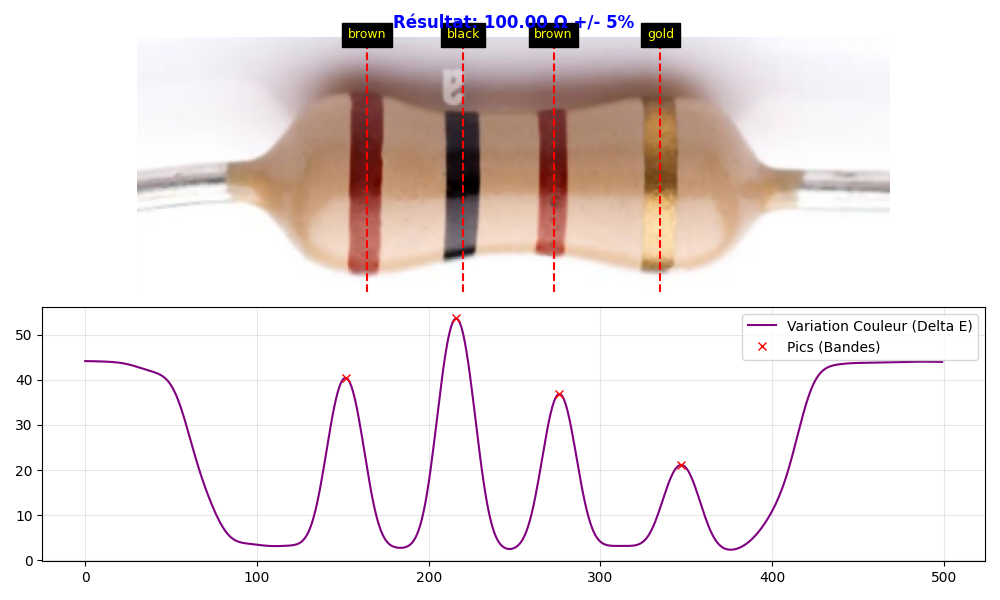
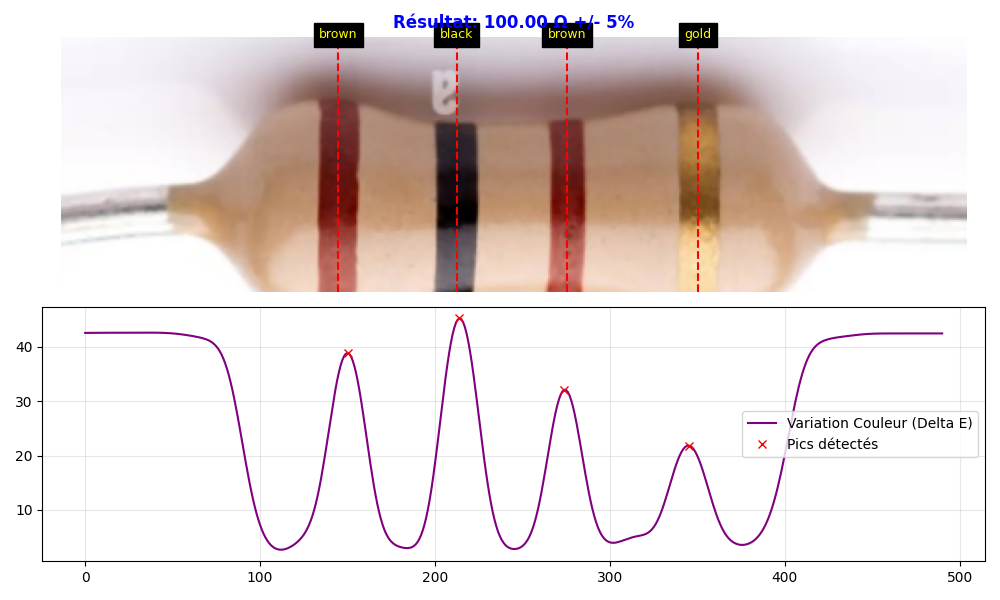
feat: add new test images

diff --git a/main.py b/main.py
@@ -1,6 +1,7 @@
 import numpy as np
 import matplotlib.pyplot as plt
 from skimage import io, color, filters, measure, transform, morphology
+from skimage.transform import resize
 from scipy.signal import find_peaks
 from scipy.ndimage import gaussian_filter1d
 from scipy.spatial import distance
@@ -64,49 +65,60 @@ def load_and_preprocess(image_path):
             img = img[:, :, :3]
         return filters.median(img, footprint=np.ones((3, 3, 1)))
     except Exception as e:
-        print(f"Erreur lors du chargement de l'image : {e}")
+        print(f"Erreur critique lors du chargement : {e}")
         return None
 
 
 def segment_and_crop(image):
-    hsv = color.rgb2hsv(image)
+    scale_factor = 0.25
+    h_orig, w_orig = image.shape[:2]
+    img_small = np.array(
+        resize(
+            image,
+            (int(h_orig * scale_factor), int(w_orig * scale_factor)),
+            anti_aliasing=True,
+            preserve_range=True,
+        )
+    ).astype(np.uint8)
+
+    hsv = color.rgb2hsv(img_small)
     sat = hsv[:, :, 1]
     try:
         thresh_s = filters.threshold_otsu(sat)
         mask_s = sat > thresh_s
     except:
-        mask_s = np.zeros(image.shape[:2], dtype=bool)
+        mask_s = np.zeros(img_small.shape[:2], dtype=bool)
 
-    gray = color.rgb2gray(image)
+    gray = color.rgb2gray(img_small)
     try:
         thresh_g = filters.threshold_otsu(gray)
         mask_g = gray < thresh_g
-        if np.sum(mask_g) > mask_g.size / 2:
-            mask_g = gray > thresh_g
+        if np.sum(mask_g) > mask_g.size / 0.6:
+            mask_g = ~mask_g
     except:
-        return None
+        mask_g = np.zeros(img_small.shape[:2], dtype=bool)
 
     binary = np.logical_or(mask_s, mask_g)
-    binary_clean = morphology.binary_opening(binary, morphology.disk(5))
 
-    if np.sum(binary_clean) < MIN_AREA:
-        binary_clean = binary
-
-    binary_clean = morphology.binary_closing(binary_clean, morphology.disk(5))
+    binary_clean = morphology.binary_erosion(binary, morphology.disk(2))
+    binary_clean = morphology.binary_opening(binary_clean, morphology.disk(2))
+    binary_clean = morphology.binary_dilation(binary_clean, morphology.disk(4))
 
     label_image = measure.label(binary_clean)
     regions = measure.regionprops(label_image)
 
     resistor = None
     max_area = 0
+    min_area_scaled = MIN_AREA * (scale_factor**2)
 
     for r in regions:
-        if r.area < MIN_AREA:
+        if r.area < min_area_scaled:
             continue
         if r.axis_minor_length == 0:
             continue
         if r.axis_major_length / r.axis_minor_length < ASPECT_RATIO_MIN:
             continue
+
         if r.area > max_area:
             max_area = r.area
             resistor = r
@@ -116,44 +128,71 @@ def segment_and_crop(image):
 
     angle = -np.degrees(resistor.orientation)
 
-    rotated_img = transform.rotate(
-        image,
-        angle,
-        center=resistor.centroid,
-        resize=True,
-        preserve_range=True,
-        order=1,
+    centroid_orig = (
+        resistor.centroid[0] / scale_factor,
+        resistor.centroid[1] / scale_factor,
+    )
+
+    edge_pixels = np.concatenate(
+        [image[0, :, :], image[-1, :, :], image[:, 0, :], image[:, -1, :]]
+    )
+    bg_color = np.median(edge_pixels, axis=0)
+
+    rotated_img = np.array(
+        transform.rotate(
+            image,
+            angle,
+            center=centroid_orig,
+            resize=True,
+            preserve_range=True,
+            order=1,
+            cval=0,
+        )
     ).astype(np.uint8)
 
-    if rotated_img is None or rotated_img.size == 0 or len(rotated_img.shape) < 2:
-        return None
+    mask_valid = np.ones(image.shape[:2], dtype=bool)
+    rotated_mask_valid = transform.rotate(
+        mask_valid, angle, center=centroid_orig, resize=True, order=0
+    ).astype(bool)
+    for c in range(3):
+        channel = rotated_img[:, :, c]
+        channel[~rotated_mask_valid] = bg_color[c]
+        rotated_img[:, :, c] = channel
 
+    binary_orig_size = np.array(
+        resize(binary_clean, (h_orig, w_orig), order=0, anti_aliasing=False)
+    )
     rotated_mask = transform.rotate(
-        label_image == resistor.label,
-        angle,
-        center=resistor.centroid,
-        resize=True,
-        order=0,
+        binary_orig_size, angle, center=centroid_orig, resize=True, order=0
     )
 
     rows = np.any(rotated_mask, axis=1)
     cols = np.any(rotated_mask, axis=0)
-
     if not np.any(rows) or not np.any(cols):
         return None
 
     ymin, ymax = np.where(rows)[0][[0, -1]]
     xmin, xmax = np.where(cols)[0][[0, -1]]
 
-    h_box = ymax - ymin
-    w_box = xmax - xmin
-    pad_y = int(h_box * CROP_PADDING)
-    pad_x = int(w_box * CROP_PADDING * 0.5)
+    roi_mask = rotated_mask[ymin:ymax, xmin:xmax]
+    col_heights = np.sum(roi_mask, axis=0)
 
-    ymin = max(0, ymin - pad_y)
-    ymax = min(rotated_img.shape[0], ymax + pad_y)
-    xmin = max(0, xmin - pad_x)
-    xmax = min(rotated_img.shape[1], xmax + pad_x)
+    if len(col_heights) > 0:
+        median_height = np.median(col_heights[col_heights > 0])
+        valid_cols = np.where(col_heights > median_height * 0.7)[0]
+
+        if len(valid_cols) > 0:
+            new_xmin = xmin + valid_cols[0]
+            new_xmax = xmin + valid_cols[-1]
+
+            pad_x = int((new_xmax - new_xmin) * 0.05)
+            xmin = max(0, new_xmin - pad_x)
+            xmax = min(rotated_img.shape[1], new_xmax + pad_x)
+
+            h_box = ymax - ymin
+            pad_y = int(h_box * CROP_PADDING)
+            ymin = max(0, ymin - pad_y)
+            ymax = min(rotated_img.shape[0], ymax + pad_y)
 
     cropped = rotated_img[ymin:ymax, xmin:xmax]
 
@@ -167,7 +206,8 @@ def segment_and_crop(image):
 
 def extract_signals(crop):
     h, w, _ = crop.shape
-    roi = crop[int(h * 0.4) : int(h * 0.6), :]
+    roi = crop[int(h * 0.45) : int(h * 0.55), :]
+
     line_rgb = np.median(roi, axis=0).reshape(1, w, 3).astype(np.uint8)
     line_lab = color.rgb2lab(line_rgb).reshape(w, 3)
     return line_rgb.reshape(w, 3), line_lab
@@ -176,6 +216,7 @@ def extract_signals(crop):
 def detect_peaks_robust(line_lab):
     bg_lab = np.median(line_lab, axis=0)
     delta_e = np.sqrt(np.sum((line_lab - bg_lab) ** 2, axis=1))
+
     sigma = max(2, len(delta_e) * 0.015)
     delta_e_smooth = gaussian_filter1d(delta_e, sigma=sigma)
 
@@ -228,7 +269,7 @@ def decode_resistor(colors):
         bands.reverse()
 
     try:
-        if len(bands) >= 4:
+        if len(bands) >= 3:
             vals = [RESISTOR_VALUES[b][0] for b in bands if b in RESISTOR_VALUES]
             mults = [RESISTOR_VALUES[b][1] for b in bands if b in RESISTOR_VALUES]
             tols = [RESISTOR_VALUES[b][2] for b in bands if b in RESISTOR_VALUES]
@@ -236,25 +277,26 @@ def decode_resistor(colors):
             tol_val = 20
             if tols[-1] is not None:
                 tol_val = tols[-1]
+                vals = vals[:-1]
+                mults = mults[:-1]
 
-            mult_val = 1
-            if mults[-2] is not None:
-                mult_val = mults[-2]
-
-            digits = vals[:-2]
             ohm_val = 0
 
-            if len(digits) == 2 and None not in digits:
-                ohm_val = (digits[0] * 10 + digits[1]) * mult_val
+            if len(vals) >= 2:
+                mult_val = mults[-1]
+                digits = vals[:-1]
 
-            elif len(digits) == 3 and None not in digits:
-                ohm_val = (digits[0] * 100 + digits[1] * 10 + digits[2]) * mult_val
+                if mult_val is None:
+                    return "Erreur Multiplicateur"
 
+                val_acc = 0
+                for d in digits:
+                    if d is not None:
+                        val_acc = val_acc * 10 + d
+
+                ohm_val = val_acc * mult_val
             else:
-                if len(digits) >= 2 and None not in digits[:2]:
-                    ohm_val = (digits[0] * 10 + digits[1]) * mult_val
-                else:
-                    return "Erreur Valeurs"
+                return "Erreur Structure"
 
             suffix = "Ω"
             if ohm_val >= 1e6:
@@ -267,7 +309,6 @@ def decode_resistor(colors):
             return f"{ohm_val:.2f} {suffix} +/- {tol_val}%"
 
     except Exception as e:
-        print(f"Erreur de calcul: {e}")
         pass
 
     return "Erreur Décodage"
@@ -290,7 +331,7 @@ def show_visu(crop, peaks, colors, result, delta_e_smooth):
 
     plt.subplot(2, 1, 2)
     plt.plot(delta_e_smooth, color="purple", label="Variation Couleur (Delta E)")
-    plt.plot(peaks, delta_e_smooth[peaks], "x", color="red", label="Pics (Bandes)")
+    plt.plot(peaks, delta_e_smooth[peaks], "x", color="red", label="Pics détectés")
     plt.grid(alpha=0.3)
     plt.legend()
     plt.tight_layout()
@@ -299,7 +340,9 @@ def show_visu(crop, peaks, colors, result, delta_e_smooth):
 
 def main():
     img_dir = "./images"
-    files = glob.glob(os.path.join(img_dir, "*.[jJ][pP][gG]"))
+    files = glob.glob(os.path.join(img_dir, "*.[jJ][pP][gG]")) + glob.glob(
+        os.path.join(img_dir, "*.[pP][nN][gG]")
+    )
 
     print(f"Traitement de {len(files)} images...")
 
@@ -315,9 +358,7 @@ def main():
 
         crop = segment_and_crop(img)
         if crop is None:
-            print(
-                ">> Echec : Impossible d'isoler la résistance (objet trop petit ou fond complexe)."
-            )
+            print(">> Echec : Impossible d'isoler la résistance.")
             continue
 
         rgb_line, lab_line = extract_signals(crop)
